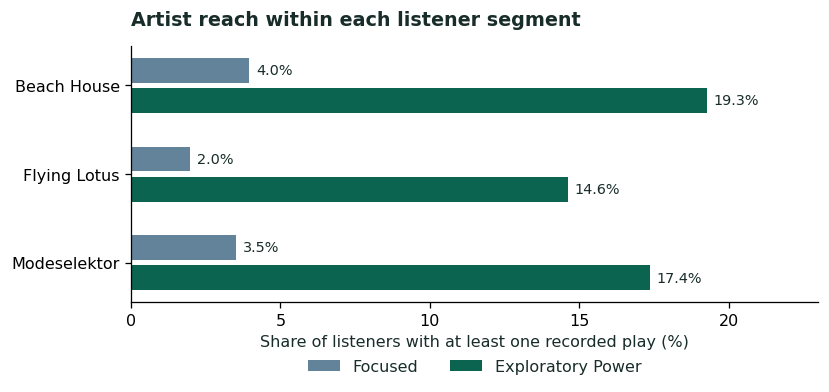
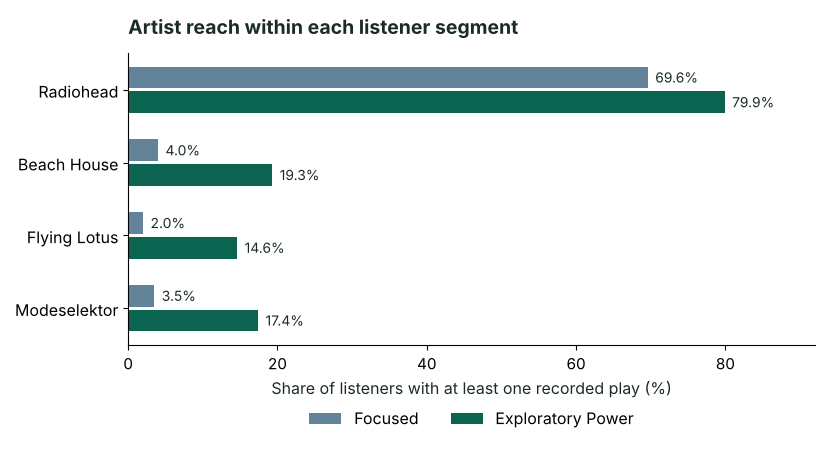
Give Project 1 its own folder and tidy Project 2 outputs
- Move the Spotify Charts project into spotify-streaming-analytics/ so all
  five projects share one layout; the root README is now a pure index.
- Replace hand-pasted cell outputs in the segmentation notebook with
  labelled "Recorded result" notes from the original run.
- Regenerate the artist reach chart with the four artists the notebook
  plots, and align the README text with it.
- Clarify that the "Exploratory Power" label describes volume and daily
  breadth, not a demonstrated preference for discovery.

Claude-Session: https://claude.ai/code/session_016NYTksHJG9Qm3NFqbdDJbZ

Changed region(s): [[0.0, 0.1224, 0.9952, 0.949], [0.1508, 0.0306, 0.7238, 0.0918]]

diff --git a/README.md b/README.md
@@ -4,45 +4,10 @@ Five case studies on streaming performance, fan behavior, marketing spend, inter
 
 | Project | Question | Tools |
 | --- | --- | --- |
-| [1. Spotify Streaming Analytics](#project-1-spotify-streaming-analytics) | Where are artists gaining momentum, and what could explain it? | PostgreSQL, Power BI |
+| [1. Spotify Streaming Analytics](spotify-streaming-analytics/) | Where are artists gaining momentum, and what could explain it? | PostgreSQL, Power BI |
 | [2. Audience Segmentation & Fan Strategy](audience-segmentation-fan-strategy/) | How do listening intensity and artist breadth vary across fan segments? | Python, scikit-learn |
 | [3. Marketing Campaign Performance & Budget Optimization](marketing-campaign-budget-optimization/) | Where should the next ad dollar go? | Excel, Tableau |
 | [4. Global Music Market & Genre Trends](global-music-market-genre-trends/) | Where could a UK artist test an international release? | Python, scikit-learn |
 | [5. Billboard Hit Classification](billboard-hit-classification/) | How well do audio features distinguish historical Billboard hits? | Python, scikit-learn |
 
-## Project 1. Spotify Streaming Analytics
-
-A fictional record label wants to know which markets deserve a closer look and what drives an artist’s streaming gains. I used PostgreSQL and DBeaver to analyze historical Spotify Charts records and Power BI to build a dashboard.
-
-### What I found
-
-- **Scale.** Ed Sheeran led artist credits with 10.52B recorded chart streams. The Weeknd’s “Blinding Lights” led tracks at 2.56B. The United States led markets at 142.13B.
-- **Geography.** Mata and sanah each over-indexed 56.9× in Poland in 2021. The index compares the artist’s share of streams from Poland with Poland’s share of all included chart streams. I paired the index with volume thresholds to surface markets worth researching for local promotion.
-- **Momentum.** João Gomes gained 414.1M recorded chart streams from H1 to H2 2021, with 60% of H2 volume across his two leading tracks. Baby Keem gained 129.0M, with 81% of H2 volume from “family ties.” I’d test a multi-track campaign for João Gomes and use Baby Keem’s breakout to introduce listeners to the rest of his catalog.
-
-### Power BI dashboard
-
-[Watch the Power BI walkthrough](assets/power-bi-walkthrough.mp4) (1:33, no audio). The recording shows the streaming overview, the market filter, and the 2021 artist and track momentum views.
-
-[![Animated Power BI preview showing the market filter switch from the UK to the US](assets/power-bi-market-filter.gif)](assets/power-bi-walkthrough.mp4)
-
-![Power BI bar chart showing the ten largest gains in recorded chart streams from H1 to H2 2021 among the screened artists](assets/power-bi-artist-momentum.png)
-
-This chart ranks the artists in the momentum sample by absolute stream gain from H1 to H2 2021. João Gomes gained 414.1 million chart streams over that period.
-
-### Project files
-
-| Path | Contents |
-| --- | --- |
-| [PostgreSQL queries](sql/analysis.sql) | Eight read-only PostgreSQL queries for the rankings, over-index and momentum analysis |
-| [Case study PDF](case-study.pdf) | Findings, charts, and recommendations |
-
-The SQL expects a prepared PostgreSQL table named `charts` scoped to 2017–2021. Required fields are `date` (date or timestamp), `artist`, `title` and `region` (text), and `streams` (numeric, nullable). Run the statements in order or individually. Each query is labeled with its corresponding export. Download the source CSV from [Spotify Charts on Kaggle](https://www.kaggle.com/datasets/dhruvildave/spotify-charts), published by Dhruvil Dave.
-
-### Method notes
-
-The analysis excludes missing stream counts and the aggregate Global chart. The 2021 comparisons also exclude South Korea because its chart series began partway through the year. Artist credits stay as written, so collaborative credits are grouped separately. The two case-study track queries consolidate title capitalization variants.
-
-Market over-index uses the artist’s share of streams from a market divided by the market’s share of all included streams. The index is capped at the inverse of the market’s share of all included chart streams. Mata and sanah both reached Poland’s 56.9× ceiling because their included chart streams were all in Poland. Read the index alongside absolute volume and market share. The screen requires 100M streams for the artist credit and 10M for the artist-market pair. The momentum sample requires at least 1M H1 streams, 10M H2 streams and a gain of 100M, then keeps up to 20 credits ranked by percentage growth.
-
-Chart streams capture charting activity. Market coverage changed over time, and these historical results do not establish what caused the growth.
+Each project folder contains a README with the findings and method, a short case-study PDF, and the code or dashboard views behind the numbers.

diff --git a/spotify-streaming-analytics/README.md b/spotify-streaming-analytics/README.md
@@ -1,0 +1,40 @@
+# Spotify Streaming Analytics
+
+Robyn Moore · Music analytics portfolio · PostgreSQL, Power BI
+
+**Where are artists gaining momentum, and what could explain it?** A fictional record label wants to know which markets deserve a closer look and what drives an artist’s streaming gains. I used PostgreSQL and DBeaver to analyze historical Spotify Charts records and Power BI to build a dashboard.
+
+[Read the case study](case-study.pdf) · [View the SQL](sql/analysis.sql) · [Portfolio home](../)
+
+## What I found
+
+- **Scale.** Ed Sheeran led artist credits with 10.52B recorded chart streams. The Weeknd’s “Blinding Lights” led tracks at 2.56B. The United States led markets at 142.13B.
+- **Geography.** Mata and sanah each over-indexed 56.9× in Poland in 2021. The index compares the artist’s share of streams from Poland with Poland’s share of all included chart streams. I paired the index with volume thresholds to surface markets worth researching for local promotion.
+- **Momentum.** João Gomes gained 414.1M recorded chart streams from H1 to H2 2021, with 60% of H2 volume across his two leading tracks. Baby Keem gained 129.0M, with 81% of H2 volume from “family ties.” I’d test a multi-track campaign for João Gomes and use Baby Keem’s breakout to introduce listeners to the rest of his catalog.
+
+## Power BI dashboard
+
+[Watch the Power BI walkthrough](assets/power-bi-walkthrough.mp4) (1:33, no audio). The recording shows the streaming overview, the market filter, and the 2021 artist and track momentum views.
+
+[![Animated Power BI preview showing the market filter switch from the UK to the US](assets/power-bi-market-filter.gif)](assets/power-bi-walkthrough.mp4)
+
+![Power BI bar chart showing the ten largest gains in recorded chart streams from H1 to H2 2021 among the screened artists](assets/power-bi-artist-momentum.png)
+
+This chart ranks the artists in the momentum sample by absolute stream gain from H1 to H2 2021. João Gomes gained 414.1 million chart streams over that period.
+
+## Project files
+
+| Path | Contents |
+| --- | --- |
+| [PostgreSQL queries](sql/analysis.sql) | Eight read-only PostgreSQL queries for the rankings, over-index and momentum analysis |
+| [Case study PDF](case-study.pdf) | Findings, charts, and recommendations |
+
+The SQL expects a prepared PostgreSQL table named `charts` scoped to 2017–2021. Required fields are `date` (date or timestamp), `artist`, `title` and `region` (text), and `streams` (numeric, nullable). Run the statements in order or individually. Each query is labeled with its corresponding export. Download the source CSV from [Spotify Charts on Kaggle](https://www.kaggle.com/datasets/dhruvildave/spotify-charts), published by Dhruvil Dave.
+
+## Method notes
+
+The analysis excludes missing stream counts and the aggregate Global chart. The 2021 comparisons also exclude South Korea because its chart series began partway through the year. Artist credits stay as written, so collaborative credits are grouped separately. The two case-study track queries consolidate title capitalization variants.
+
+Market over-index uses the artist’s share of streams from a market divided by the market’s share of all included streams. The index is capped at the inverse of the market’s share of all included chart streams. Mata and sanah both reached Poland’s 56.9× ceiling because their included chart streams were all in Poland. Read the index alongside absolute volume and market share. The screen requires 100M streams for the artist credit and 10M for the artist-market pair. The momentum sample requires at least 1M H1 streams, 10M H2 streams and a gain of 100M, then keeps up to 20 credits ranked by percentage growth.
+
+Chart streams capture charting activity. Market coverage changed over time, and these historical results do not establish what caused the growth.

diff --git a/audience-segmentation-fan-strategy/README.md b/audience-segmentation-fan-strategy/README.md
@@ -4,7 +4,7 @@ Robyn Moore · Music analytics portfolio · Python, pandas, scikit-learn
 
 **How can a label use listening behavior to decide who might respond to artist discovery or catalog re-engagement?** I used historical Last.fm listening histories to identify two behavioral segments, then compared artist reach and audience affinity to design campaign tests.
 
-[Read the case study](case-study.pdf) · [View the Python notebook](audience-segmentation.ipynb) · [Project 1: Spotify Streaming Analytics](../)
+[Read the case study](case-study.pdf) · [View the Python notebook](audience-segmentation.ipynb) · [Portfolio home](../)
 
 ## What I found
 
@@ -22,9 +22,11 @@ Artist breadth divides the number of distinct artist names across a listener’s
 
 **Reach and affinity tell different stories.** Radiohead reached 693 listeners and indexed at 1.15×. Beach House reached 19.28% of Exploratory Power Listeners and 3.96% of Focused Listeners, an index of 4.86×. Flying Lotus indexed at 7.37×, with 14.62% penetration in the Exploratory Power segment.
 
-![Artist reach by segment for Beach House, Flying Lotus and Modeselektor](artist-affinity.png)
+![Artist reach by segment for Radiohead, Beach House, Flying Lotus and Modeselektor](artist-affinity.png)
 
-**Interpretation.** Artist breadth was normalized by time. Plays and breadth increased by similar multiples across segments, so these averages do not establish greater exploration per play. A high-volume listener also has more chances to play any given artist at least once. The affinity ratios are descriptive. I’d compare listeners at similar play volumes or test breadth per play before interpreting them as preference differences.
+Radiohead shows broad reach in both segments. Beach House, Flying Lotus and Modeselektor (3.5% of Focused and 17.4% of Exploratory Power Listeners) reach far fewer listeners overall and are concentrated in the higher-volume segment.
+
+**Interpretation.** “Exploratory Power” is a label for the higher-volume cluster with wider daily artist breadth. It does not show a stronger appetite for discovery. Artist breadth was normalized by time. Plays and breadth increased by similar multiples across segments, so these averages do not establish greater exploration per play. A high-volume listener also has more chances to play any given artist at least once. The affinity ratios are descriptive. I’d compare listeners at similar play volumes or test breadth per play before interpreting them as preference differences.
 
 ## What I’d test
 
@@ -39,6 +41,6 @@ I standardized four behavioral features and compared K-Means solutions from k=2 
 
 1. Download the full `userid-timestamp-artid-artname-traid-traname.tsv.zip` from the [Last.fm 1K data release](https://github.com/eifuentes/lastfm-dataset-1K/releases) and place it beside the notebook.
 2. Install the dependencies with `python -m pip install -r requirements.txt`, then open `audience-segmentation.ipynb` in JupyterLab and run all cells. The code reads the event archive in chunks.
-3. The release notebook contains no saved listener-level outputs. The full archive is required to reproduce the historical figures. The supplied 50-user Parquet was used for exploration. Raw histories and demographics are omitted from this repository.
+3. The notebook is published without saved cell outputs and records the original aggregate results as notes under each step. The full archive is required to reproduce the historical figures. A 50-user Parquet subset from the same release was used for exploration only. Raw histories and demographics are omitted from this repository.
 
 Source: Òscar Celma’s Last.fm 1K user dataset, released via the mirror linked above.
